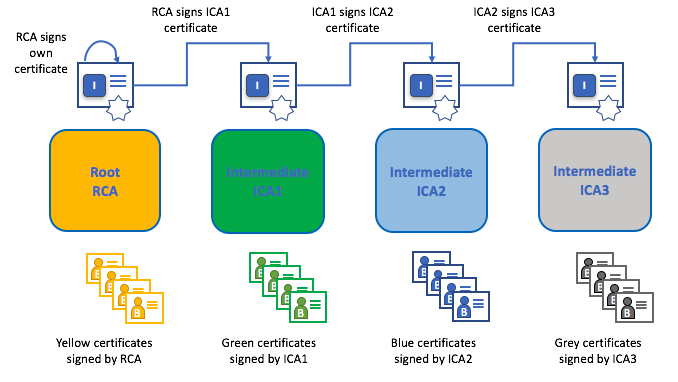
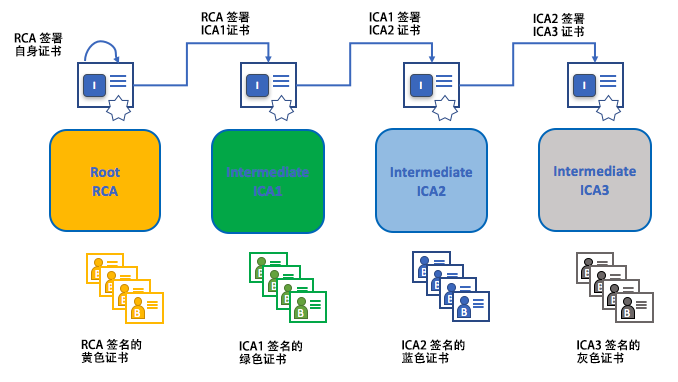
Identity章节中文翻译

diff --git a/source/identity/identity.md b/source/identity/identity.md
@@ -1,7 +1,10 @@
+# 身份
 # Identity
 
+## 什么是身份
 ## What is an Identity?
-
+在区块链的网络中有很多不同的身份包括节点（对等节点）、排序节点、客户端应用，超级管理员等等。它们中的每一个角色都拥有X.509数字证书封装的身份。而这些身份也因为**决定着角色在区块链网络中所能获得的资源权限**格外重要。
+超级账本Fabric使用角色身份中的某些属性来确定权限，并称之为**当事人(principal)**，当事人就像是userIDs或者groupIDs这些，但是要更加灵活，它们可以包含角色的各种身份属性。当我们讨论当事人时，我们是在考虑系统中的角色，特别是可以决定它们权限的身份属性。这些属性通常是一个成员的组织，所属部门，承担角色或者其它成员的特殊身份。
 The different actors in a blockchain network include peers, orderers, client applications,
 administrators and more. Each of these actors has an identity that is encapsulated in an
 X.509 digital certificate. These identities really matter because they **determine the exact
@@ -14,6 +17,7 @@ specifically the actor's identity properties which determine their permissions. 
 properties are typically the actor's organization, organizational unit, role or even the
 actor's specific identity.
 
+更为重要的是，**一个身份**必须是**可证实的**（即真实身份），因此它必须来源于一个能被系统信任的权威组织。在Fabric中[成员服务提供者](../membership/membership.html)(MSP，membership service provider)就是用来完成这件事情的。进一步来说，MSP是表示组织成员资格的组件，因此，它定义了管理该组织成员有效身份的规则。Fabric中默认的MSP方案使用X.509证书作为身份，并采用传统的公钥基础设施（PKI）分层模型。
 Most importantly, **an identity** must be **verifiable** (a real
 identity, in other words), and for this reason it must come from an
 authority **trusted** by the system. A [membership service provider](../membership/membership.html)
@@ -24,40 +28,46 @@ of a member of this organization. The default MSP implementation in Fabric
 uses X.509 certificates as identities, adopting a traditional Public
 Key Infrastructure (PKI) hierarchical model.
 
-
+## 使用身份的简单场景
 ## A Simple Scenario to Explain The Use of an Identity
 
+想象这样一个场景：你到超市去买东西，在收银台你看到一个提醒说，只能使用Visa、Mastercard和AMEX银行卡，如果你试着使用其它卡片支付，让我们称它为“幻想卡”——即便这张卡真实且余额充足，也不行，它不会被接受。
+![Scenario](./identity.diagram.6.png)
 Imagine that you visit a supermarket to buy some groceries. At the checkout you see
 a sign that says that only Visa, Mastercard and AMEX cards are accepted. If you try to
  pay with a different card -- let's call it an "ImagineCard" -- it doesn't matter whether
  the card is authentic and you have sufficient funds in your account. It will be not be
  accepted.
 
-![Scenario](./identity.diagram.6.png)
 
+*只拥有一个有效的信用卡还不够，还必须是商店可以接受的支付卡片才可以！PKIs和MSPs以相同的方式协同工作——PKI提供有效身份列表，MSP描述哪些身份是网络中给定组织的成员。*
 *Having a valid credit card is not enough -- it must also be accepted by the store! PKIs
 and MSPs work together in the same way -- PKI provides a list of identities,
 and an MSP says which of these are members of a given organization that participates in
 the network.*
-
+PKI证书颁发机构和MSPs提供了类似的多功能组合，一个PKI就像是一种卡的提供商，它分配了很多不同的可验证身份，而一个MSP，从某个层面看，就像是商店接受的卡种提供商列表。决定着哪些身份在商店的支付网络中是可信的成员（角色）。**MSP将可验证的身份转换成了区块链网络中的成员**。
 PKI certificate authorities and MSPs provide a similar combination of functionalities.
 A PKI is like a card provider -- it dispenses many different types of verifiable
 identities. An MSP, on the other hand, is like the list of card providers accepted
 by the store -- determining which identities are the trusted members (actors)
 of the store payment network. **MSPs turn verifiable identities into the members
 of a blockchain network**.
-
+下面让我们更详细的了解这些概念。
 Let's drill into these concepts in a little more detail.
 
+## 什么事PKIs
 ## What are PKIs?
+
+**一个公钥基础设施（PKI）是在网络中提供安全通信的因特网技术的集合。**也正是PKI把**S**带给**HTTPS**的，如果你正在网络浏览器中读这篇文档，那么你很可能就在使用PKI去确认文档来源于一个可以验证的资源。
+
+![PKI](./identity.diagram.7.png)
 
 **A public key infrastructure (PKI) is a collection of internet technologies that provides
 secure communications in a network.** It's PKI that puts the **S** in **HTTPS** -- and if
 you're reading this documentation on a web browser, you're probably using a PKI to make
 sure it comes from a verified source.
 
-![PKI](./identity.diagram.7.png)
-
+*公钥基础设施(PKI)原理。公钥基础设施由向成员（服务的使用者、服务的提供者）颁发数字证书的认证机构（CA）组成，然后这些成员使用数字证书去证明他们在环境中交换的消息确实由该成员所发，一个CA的证书撤销列表（CRL）由无效数字证书的引用组成。证书的吊销可能有很多原因，比如，与证书关联的私有信息（私钥等）已经泄漏，那么证书就应该被吊销。*
 *The elements of Public Key Infrastructure (PKI). A PKI is comprised of Certificate
 Authorities who issue digital certificates to parties (e.g., users of a service, service
 provider), who then use them to authenticate themselves in the messages they exchange
@@ -65,12 +75,19 @@ with their environment. A CA's Certificate Revocation List (CRL) constitutes a r
 for the certificates that are no longer valid. Revocation of a certificate can happen fora number of reasons. For example, a certificate may be revoked because the cryptographic
 private material associated to the certificate has been exposed.
 
+虽然区块链网络不只是通信网络，它依赖于PKI标准来确保在各种多样的网络间加密通信，同时确保发布在区块链上的消息都是被正确认证的。因此理解PKI的基础概念十分重要，进而MSPs也很重要。
 Although a blockchain network is more than a communications network, it relies on the
 PKI standard to ensure secure communication between various network participants, and to
 ensure that messages posted on the blockchain are properly authenticated.
 It's therefore really important to understand the basics of PKI and then why MSPs are
 so important.
 
+PKI有四个关键的元素：
+
+ * **数字证书**
+ * **公钥、私钥**
+ * **认证机构**
+ * **证书吊销列表**
 There are four key elements to PKI:
 
  * **Digital Certificates**
@@ -78,11 +95,14 @@ There are four key elements to PKI:
  * **Certificate Authorities**
  * **Certificate Revocation Lists**
 
+让我们快速介绍一下这些PKI的基本要素，如果你还想知道更多细节，[Wikipedia](https://en.wikipedia.org/wiki/Public_key_infrastructure)是个开始的好地方。
 Let's quickly describe these PKI basics, and if you want to know more details,
 [Wikipedia](https://en.wikipedia.org/wiki/Public_key_infrastructure) is a good place to start.
 
+## 数字证书
 ## Digital Certificates
 
+数字证书是一份保存了成员相关的一系列属性的文件。最通用的数字证书类型满足[X.509 标准](https://en.wikipedia.org/wiki/X.509),该标准允许在其结构中编码成员的身份识别细节。举例来说，张三（原文是John Doe，英语中意为某人）是美国密西根省底特律市FOO公司会计部的员工，他可能有这样的数字证书：`主题属性`：`C=美国, ST=密西根，L=底特律，O=FOO公司，OU=会计部，CN=张三，UID=123456`.张三的数字证书和他的官方身份卡是相似的，它提供张三的信息，张三可以使用这些信息来证明关于他的一些关键事实，在X.509中还有很多其它的属性，但目前我们只关注这些就够了。
 A digital certificate is a document which holds a set of attributes relating to a
 party. The most common type of certificate is the one compliant with the [X.509 standard](https://en.wikipedia.org/wiki/X.509),
 which allows the encoding of a party's identifying details in its structure.
@@ -96,12 +116,14 @@ on just these for now.
 
 ![DigitalCertificate](./identity.diagram.8.png)
 
+*关于某个成员的数字证书，某人是证书的“主题”，“主题”中加粗的文本显示了关于他的关键事实。如您所见，该证书还保存了更多的信息。最重要的是，此人的公钥信息也发布在他的证书中，而他的私钥不在其中，私钥是必须保密的。*
 *A digital certificate describing a party called John Doe. John is the `SUBJECT` of the
 certificate, and the highlighted `SUBJECT` text shows key facts about John. The
 certificate also holds many more pieces of information, as you can see. Most importantly,
 John's public key is distributed within his certificate, whereas his private signing key
 is not. This signing key must be kept private.*
 
+重要的是张三的所有属性都可以使用一种称为密码学的数学技术来记录（书面语，“*密写*”）也因为这样，对属性的篡改会使证书失效。密码学使得张三可以向他人出示数字证书来证明身份，只要其它人能够信任证书颁发者，也就是**证书颁发机构**（CA）。只要CA可以隐秘的保存确定的密文信息（意思是，它自己的**私有签名密钥**），任何读取证书的人都可以确信，这些信息就是张三的，它没有被篡改。可以把上图里Mary的X.509证书看作是一个不可更改的数字身份证。
 What is important is that all of John's attributes can be recorded using a mathematical
 technique called cryptography (literally, "*secret writing*") so that tampering will
 invalidate the certificate. Cryptography allows John to present his certificate to others
@@ -112,8 +134,10 @@ certificate can be sure that the information about John has not been tampered wi
 it will always have those particular attributes for John Doe. Think of Mary's X.509
 certificate as a digital identity card that is impossible to change.
 
+## 身份验证 \& 公钥和私钥
 ## Authentication \& Public keys and Private Keys
 
+身份验证和消息完整性是安全通信的重要概念。身份验证要求各方创建特定消息来确保消息交换者的身份。完整性要求在传输过程中不修改消息。例如，您可能希望确保与真正的张三通信而不是模仿者。或者可能希望确保他向您发送的一条消息，在传输过程中没有被任何人篡改过。
 Authentication and message integrity are important concepts of secure
 communication. Authentication requires that parties who exchange messages
 can be assured of the identity that created a specific message. Integrity
@@ -122,10 +146,12 @@ For example, you might want to be sure you're communicating with the real John
 Doe than an impersonator. Or if John has sent you a message, you might want to be sure
 that it hasn't been tampered with by anyone else during transmission.
 
+传统的身份验证机制依赖于**数字签名机制**，顾名思义，允许一方对其消息进行数字**签名**。数字签名还可以保证签名消息的完整性。
 Traditional authentication mechanisms rely on **digital signature mechanisms**, that
 as the name suggests, allow a party to digitally **sign** its messages. Digital
 signatures also provide guarantees on the integrity of the signed message.
 
+从技术上讲，数字签名机制要求每一方都需要保存两个加密有关联的密钥：广泛公开使用的公钥，充当身份验证依据，以及用于在消息上生成**数字签名**的私钥。 消息的接收者可以通过检查消息的附加数字签名，是否在预期发送者的公钥下有效，来验证接收到的消息来源和完整性。
 Technically speaking, digital signature mechanisms require require for each party to
 hold two cryptographically connected keys: a public key that is made widely available,
 and acts as authentication anchor, and a private key that is used to produce
@@ -133,34 +159,39 @@ and acts as authentication anchor, and a private key that is used to produce
 the origin and integrity of a received message by checking that the
 attached signature is valid under the public key of the expected sender.
 
+**私钥和对应公钥的独特关系是密码学的魔术，这使得加密通信成为可能**。密钥之间的唯一数学关系让私钥可以用于消息签名，这一签名仅有对应的公钥和相同的签名信息可以正确匹配。
 **The unique relationship between a private key and the respective public key is the
 cryptographic magic that makes secure communications possible**. The unique
 mathematical relationship between the keys is such that the private key can be used to
 produce a signature on a message that only the corresponding public key can match, and
 only on the same message.
 
-![AuthenticationKeys](./identity.diagram.9.png)
+![验证签名](./identity.diagram.9.png)
 
+在上面的示例中，为了验证他的消息，Mary使用她的私钥在消息上生成签名，然后将其附加到消息中，任何使用Mary的公钥查看签名消息的人都可以验证签名真伪。
 In the example above, to authenticate his message Joe uses his private key to produce a
 signature on the message, which he then attaches to the message. The signature
 can be verified by anyone who sees the signed message, using John's public key.
 
 
-
+## 认证机构
 ## Certificate Authorities
 
+如您所见，成员或者说节点能够通过区块链网络所信任的机构为其发布的**数字身份**加入到网络中。在最常见的情况下，数字身份（或简称**身份**）具有符合X.509标准的加密验证数字证书的形式，并由证书颁发机构（CA）颁发。
 As you've seen, an actor or a node is able to participate in the blockchain network,
 via the means of a **digital identity** issued for it by an authority trusted by the
 system. In the most common case, digital identities (or simply **identities**) have
 the form of cryptographically validated digital certificates that comply with X.509
 standard, and are issued by a Certificate Authority (CA).
 
+CA是互联网安全协议的常见部分，您可能已经听说过一些比较流行的协议：Symantec（最初是Verisign），GeoTrust，DigiCert，GoDaddy和Comodo等。
 CAs are a common part of internet security protocols, and you've probably heard of
 some of the more popular ones: Symantec (originally Verisign), GeoTrust, DigiCert,
 GoDaddy, and Comodo, among others.
 
-![CertificateAuthorities](./identity.diagram.11.png)
+![证书颁发机构](./identity.diagram.11.png)
 
+证书颁发机构向不同的参与者分发证书。 这些证书由CA进行数字签名（即使用CA的私钥），同时将实际的用户角色与该用户的公钥绑定在一起，并可选地与一个完整的属性列表绑定在一起。显然，如果一个人信任CA（并且知道其公钥），它可以（通过验证参与者证书上的CA签名）信任特定参与者绑定到证书中包含的公钥，并拥有包含的属性。
 *A Certificate Authority dispenses certificates to different actors. These certificates
 are digitally signed by the CA (i.e, using the CA's private key), and
 bind together the actual actor with the actor's  public key, and optionally with a
@@ -169,22 +200,31 @@ knows its public key), it can (by validating the CA's signature on the actor's
 certificate) trust that the specific actor is bound to the public key included in the
 certificate, and owns the included attributes.
 
+至关重要的，证书因为并不包含角色信息和角色的私钥，因此可以广泛传播，这也就使得证书能够当做信任的锚点，来验证来自不同角色的消息。
 Crucially certificates can be widely disseminated, as they do not include neither the
 actors' nor the actual CA's private keys. As such they can be used as anchor of
 trusts for authenticating messages coming from different actors.
 
+事实上，证书颁发机构本身也有证书，它们被广泛使用。这允许由CA颁发身份的使用者们通过检查证书，来验证只能由相应私钥的持有者生成。
 In reality, CAs themselves also have a certificate, which they make widely
 available. This allows the consumers of identities issued by a given CA to
 verify them by checking that the certificate could only have been generated
 by the holder of the corresponding private key (the CA).
 
+在区块链的设置中，每个希望与网络进行交互的参与者都需要有身份。在这样的设置下，可以说有**一个或多个CA**可以用于**从数字角度定义组织的成员**。
+CA为组织的参与者提供可验证的数字身份的基础。
 In the Blockchain setting, every actor who wishes to interact with the network
 needs an identity. In this setting,  you might say that **one or more CAs** can be used
 to **define the members of an organization's from a
 digital perspective**. It's the CA that provides the basis for an
 organization's actors to have a verifiable digital identity.
 
+### 根CA，中间CA和信任链
 ### Root CAs, Intermediate CAs and Chains of Trust
+
+CA有两种形式：根CA和中间CA。由于根CA（赛门铁克、Geotrust等等)必须安全地向互联网用户颁发数以亿计个证书，因此将此过程分散到所谓的**中间CA**是有意义的。这些中间CA具有由根CA或其他中间机构颁发的证书，允许为链中的任何CA颁发的任何证书建立“信任链”。追溯到根CA的这种能力不仅提供了CA的功能扩展，同时依然提供安全性，这样的特点让组织能够有信心地使用中间CA所颁发的证书。此外它还限制了根CA的暴露，根CA如果受到损害，会危及整个信任链。而另一方面，如果是中间CA受到损害，则曝露范围会小得多。
+
+![信任链](./identity.diagram.1.png)
 
 CAs come in two flavors: **Root CAs** and **Intermediate CAs**. Because Root CAs
 (Symantec, Geotrust, etc) have to **securely distribute** hundreds of millions
@@ -199,12 +239,13 @@ confidence -- it limits the exposure of the Root CA, which, if compromised, woul
 endanger the entire chain of trust. If an Intermediate CA is compromised, on the
 other hand, there is a much smaller exposure.
 
-![ChainOfTrust](./identity.diagram.1.png)
+*只要中间CA的证书全是由根CA本身颁发或具有到根CA的信任链，那么就可以在根CA和这样的一组中间CA之间建立信任链。*
 
 *A chain of trust is established between a Root CA and a set of Intermediate CAs
 as long as the issuing CA for the certificate of each of these Intermediate CAs is
 either the Root CA itself or has a chain of trust to the Root CA.*
 
+中间CA在跨多个组织颁发证书时提供了巨大的灵活性，这在有许可的区块链系统中非常有用。例如，您将看到不同的组织可能使用不同的根CA，或者使用具有不同中间CA的相同根CA，这些取决于网络的需求。
 Intermediate CAs provide a huge amount of flexibility when it comes to the issuance
 of certificates across multiple organizations, and that's very helpful in a
 permissioned blockchain system. For example, you'll see that different organizations
@@ -213,6 +254,7 @@ it really does depend on the needs of the network.
 
 ### Fabric CA
 
+因为CA确实太重要了，Fabric提供了内置的CA组件供你在构建区块链网络的时候创建CA。这个组件（** fabric-ca **）是一个私有根CA的提供者程序，能够管理具有X.509证书形式的Fabric参与者的数字身份。由于Fabric-CA是针对Fabric的根CA需求而自定义的特别CA，因此它本身无法为浏览器中的常规或自动使用，提供SSL证书。 但是，因为**必须使用某些** CA来管理身份（即使在测试环境中）,fabric-ca可以用来提供和管理证书。使用公共/商业根或中间CA来提供识别也是可以的，并且完全合适。
 It's because CAs are so important that Fabric provides a built-in CA component to
 allow you to create CAs in the blockchain networks you form. This component -- known
 as **fabric-ca** is a private root CA provider capable of managing digital identities of
@@ -224,36 +266,48 @@ in browsers. However, because **some** CA must be used to manage identity
 certificates. It is also possible -- and fully appropriate -- to use a
 public/commerical root or intermediate CA to provide identification.
 
-If you're interested, you can read a lot more about fabric-ca
-[in the CA documentation section](http://hyperledger-fabric-ca.readthedocs.io/).
+如果你对这些感兴趣，你可以从[CA文档章节](http://hyperledger-fabric-ca.readthedocs.io/)中阅读到更多关于fabric-ca的内容。
 
+If you're interested, you can read a lot more about fabric-ca
+
+## 证书废弃列表
 ## Certificate Revocation Lists
 
+证书废弃列表（CRL）很容易理解——它是一个关于CA已知的因为某种原因而弃用的证书列表，如果你能回忆起商店的那个场景，证书废弃列表就像是被盗信用卡列表一样。
 A Certificate Revocation List (CRL) is easy to understand -- it's just a list of
 references to certificates that a CA knows to be revoked for one reason or another. If you recall
 the store scenario, a CRL would be like a list of stolen credit cards.
+
+当一个第三方想要验证另一方的身份时，它会先检查证书颁发机构的CRL，来确认该身份证书没有被吊销。验证者不是必须检查CRL，如果他们可以冒着接受来自受损身份的风险。
+
+![CRL](./identity.diagram.12.png)
 
 When a third party wants to verify another party's identity, it first checks the
 issuing CA's CRL to make sure that the certificate has not been revoked.
 A verifier doesn't have to check the CRL, but if they don't they run the risk of
 accepting a compromised identity.
 
-![CRL](./identity.diagram.12.png)
+*使用CRL检查证书是否仍然有效。如果模仿者试图将受损的数字证书传递给验证方，则可以首先检查颁发CA的CRL，以确保其未被列为不再有效。*
 
 *Using a CRL to check that a certificate is still valid. If an impersonator tries to
 pass a compromised digital certificate to a validating party, it can be first
 checked against the issuing CA's CRL to make sure it's not listed as no longer valid.*
+
+请注意，被撤销的证书与证书过期非常不同。撤销的证书尚未过期 - 按其他措施，它们是完全有效的证书。 这类似于过期驾驶执照和被吊销驾驶执照之间的差异。有关CRL的更深入信息，请点击[这里](https://hyperledger-fabric-ca.readthedocs.io/en/latest/users-guide.html#generating-a-crl-certificate-revocation-list)。
+
 
 Note that a certificate being revoked is very different from a certificate expiring.
 Revoked certificates have not expired -- they are, by every other measure, a fully
 valid certificate. This is similar to the difference between an expired driver's license
  and a revoked driver's license. For more in depth information into CRLs, click [here](https://hyperledger-fabric-ca.readthedocs.io/en/latest/users-guide.html#generating-a-crl-certificate-revocation-list).
 
+您已经了解了PKI如何通过信任链提供可验证的身份，下一步是了解这些身份如何用于代表区块链网络的可信成员。这就是成员服务提供者（MSP）发挥作用的地方——**它确定了区块链网络中特定组织成员的各方**。
 Now that you've seen how a PKI can provide verifiable identities through a chain of
 trust, the next step is to see how these identities can be used to represent the
 trusted members of a blockchain network. That's where a Membership Service Provider
 (MSP) comes into play -- **it identifies the parties who are the members of a given organization in the blockchain network**.
 
+想要学习更多关于成员的内容，可以查阅[MSPs](../membership/membership.html)的概念文档。
 To learn more about membership, check out the conceptual documentation on [MSPs](../membership/membership.html).
 
 <!---
